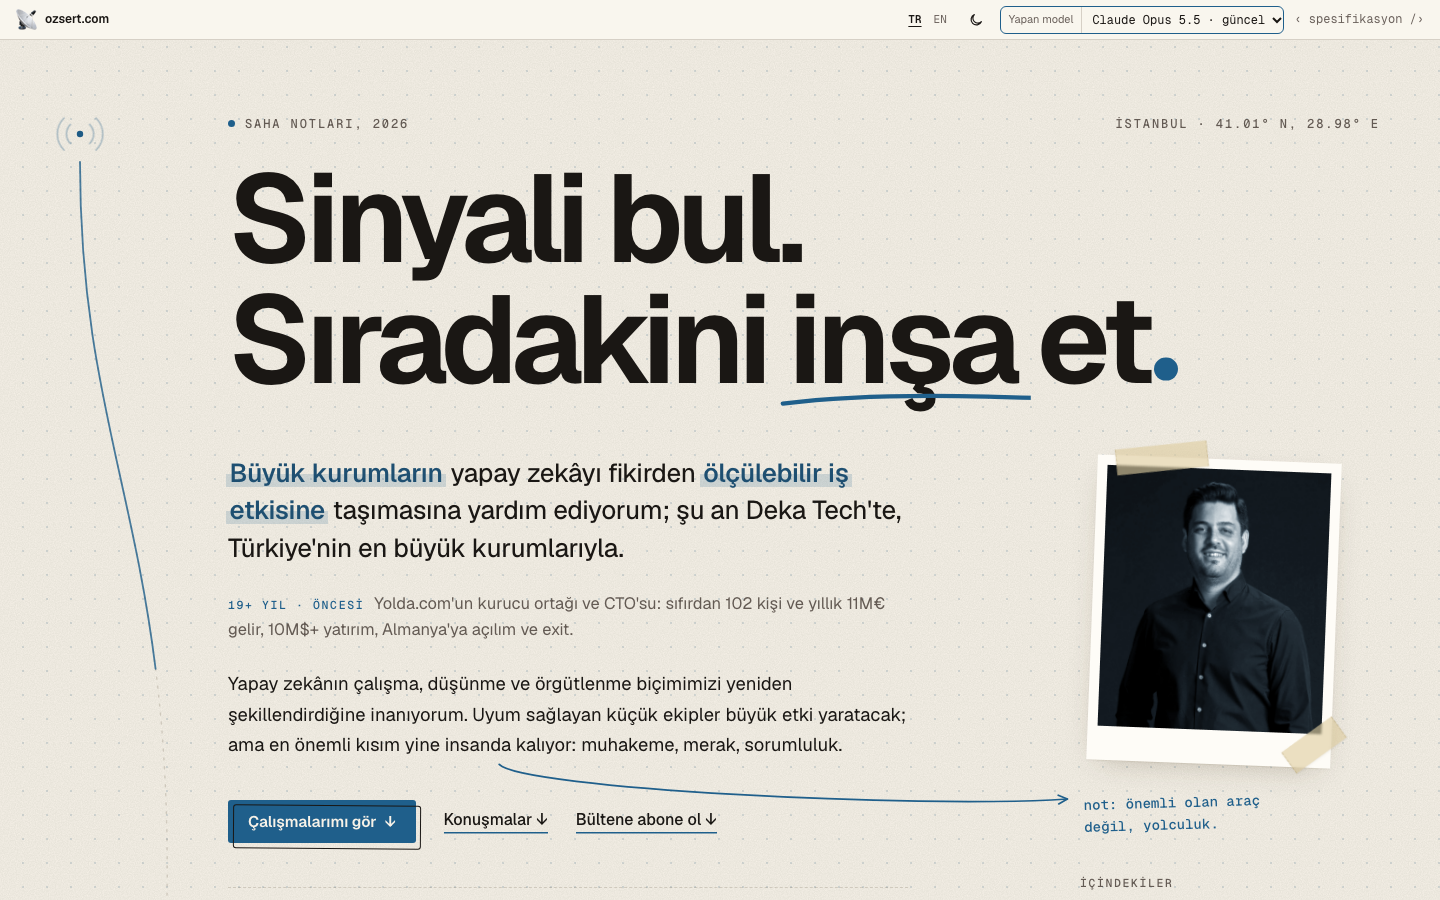
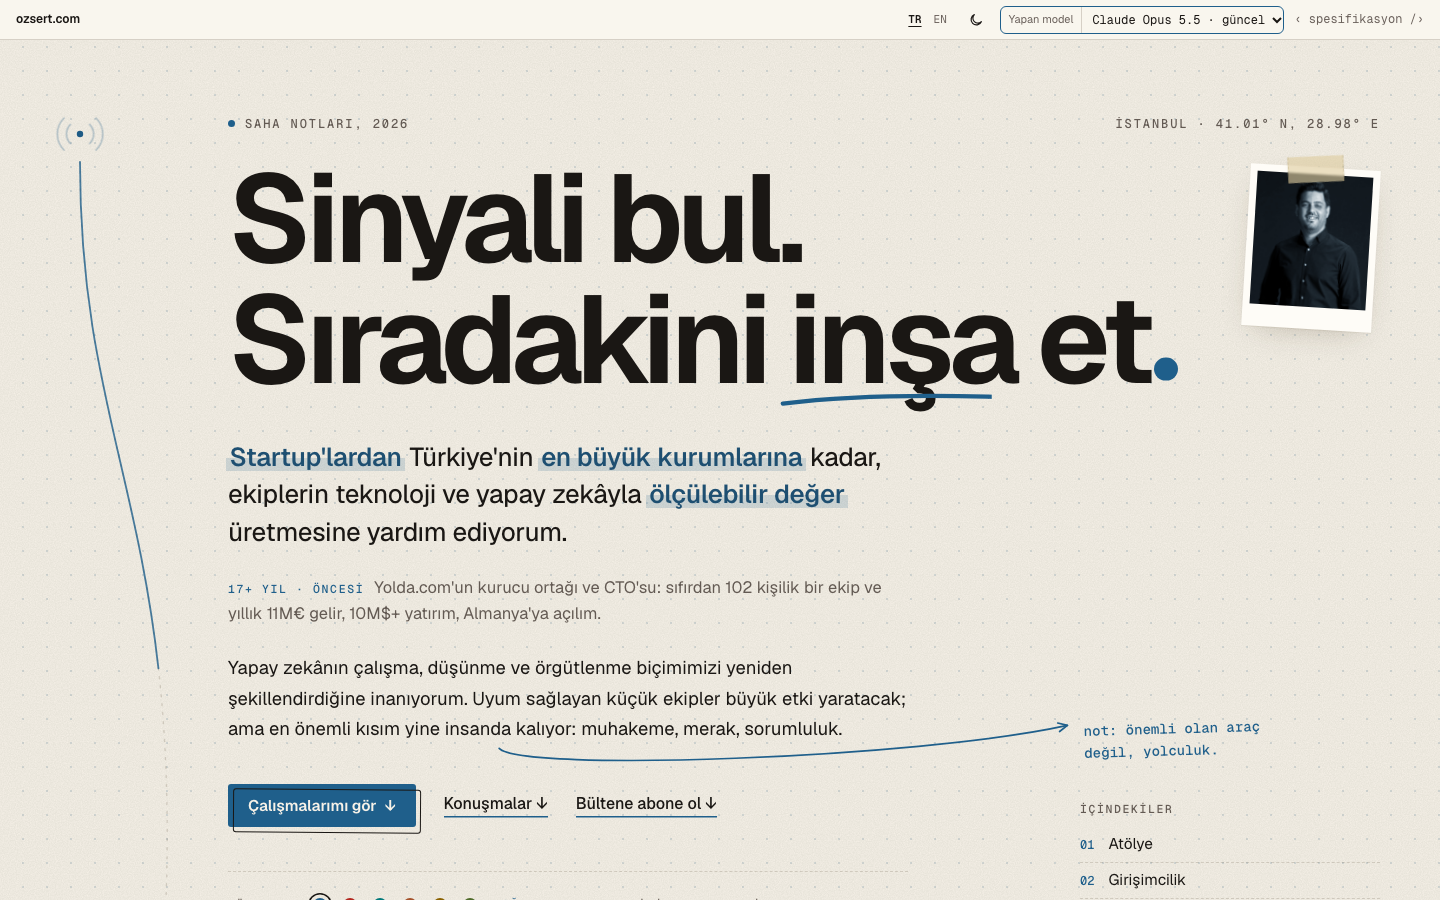
Hero: small portrait at the headline's corner, content and contents list move up
Hand fix to the dry-run homepage (allowed before the freeze) plus a short design.md note,
and refreshed timeline thumbnails.

diff --git a/models/claude-opus-5-5/style.css b/models/claude-opus-5-5/style.css
@@ -201,8 +201,8 @@ section[id], footer[id] { scroll-margin-top: 48px; }
 .vo55-kicker-l::before { content: ""; display: inline-block; width: 7px; height: 7px; border-radius: 50%; background: var(--ink); margin-right: 10px; transform: translateY(-1px); }
 
 .vo55-h1 {
-  font-size: clamp(44px, 8.6vw, 124px); line-height: .94; letter-spacing: -.052em; font-weight: 650;
-  margin: 28px 0 0; max-width: 15ch; text-wrap: balance;
+  font-size: clamp(44px, 7.3vw, 108px); line-height: .94; letter-spacing: -.052em; font-weight: 650;
+  margin: 28px 0 0; max-width: none; text-wrap: balance;
 }
 .vo55-h1 .vo55-line { display: block; }
 .vo55-h1 .vo55-line + .vo55-line { margin-top: .04em; }
@@ -211,9 +211,11 @@ section[id], footer[id] { scroll-margin-top: 48px; }
 
 .vo55-hero-grid {
   position: relative; display: grid; grid-template-columns: minmax(0, 1fr) 300px; column-gap: clamp(32px, 6vw, 96px);
-  margin-top: 56px;
+  margin-top: 40px;
 }
 .vo55-hero-main { max-width: 680px; }
+/* the portrait is a small taped photo pinned to the headline's corner */
+.vo55-h1-wrap { display: grid; grid-template-columns: minmax(0, 1fr) auto; align-items: start; column-gap: 24px; }
 .vo55-role { font-size: clamp(21px, 2vw, 26px); line-height: 1.45; letter-spacing: -.012em; font-weight: 450; }
 .vo55-hl {
   color: color-mix(in srgb, var(--ink) 78%, var(--fg)); font-weight: 560;
@@ -249,26 +251,25 @@ section[id], footer[id] { scroll-margin-top: 48px; }
 
 .vo55-hero-side { position: relative; padding-top: 4px; }
 .vo55-portrait {
-  position: relative; margin: 0 0 0 12px; width: calc(100% - 20px); max-width: 244px; aspect-ratio: 4 / 5;
-  background: var(--card); padding: 10px 10px 34px; box-shadow: var(--shadow);
-  transform: rotate(2.2deg); transition: transform .5s var(--ease);
+  position: relative; margin: 34px 4px 0 0; width: clamp(120px, 11.5vw, 168px); aspect-ratio: 4 / 5;
+  background: var(--card); padding: 7px 7px 22px; box-shadow: var(--shadow);
+  transform: rotate(3.5deg); transition: transform .5s var(--ease);
 }
 .vo55-portrait:hover { transform: rotate(.6deg); }
 .vo55-portrait img { width: 100%; height: 100%; object-fit: cover; object-position: 50% 30%; filter: grayscale(1) contrast(1.05); }
 .vo55-portrait::after {
-  content: ""; position: absolute; inset: 10px 10px 34px; background: var(--ink); mix-blend-mode: soft-light; opacity: .55; pointer-events: none;
+  content: ""; position: absolute; inset: 7px 7px 22px; background: var(--ink); mix-blend-mode: soft-light; opacity: .55; pointer-events: none;
 }
-.vo55-tape-a { top: -12px; left: 18px; transform: rotate(-8deg); }
-.vo55-tape-b { bottom: 10px; right: -14px; transform: rotate(-38deg); width: 62px; }
+.vo55-tape-a { top: -11px; left: 50%; width: 56px; transform: translateX(-50%) rotate(-6deg); }
 
 .vo55-note {
-  position: relative; margin: 40px 0 0 0; padding-left: 4px; max-width: 26ch;
+  position: relative; margin: 0; padding-left: 4px; max-width: 26ch;
   font: 500 14px/1.55 var(--mono); color: var(--ink); transform: rotate(-1.6deg);
 }
 .vo55-arrow { position: absolute; inset: 0; width: 100%; height: 100%; pointer-events: none; overflow: visible; }
 .vo55-arrow path { fill: none; stroke: var(--ink); stroke-width: 1.7; stroke-linecap: round; stroke-linejoin: round; }
 
-.vo55-toc { margin-top: 40px; }
+.vo55-toc { margin-top: 6px; }
 .vo55-toc h2 { margin-bottom: 10px; }
 .vo55-toc a { display: flex; gap: 14px; align-items: baseline; text-decoration: none; padding: 5px 0; border-bottom: 1px dashed var(--rule); font-size: 15.5px; transition: color .2s, padding .25s var(--ease); }
 .vo55-toc a:hover { color: var(--ink); padding-left: 6px; }
@@ -527,10 +528,11 @@ a.vo55-exp-row:hover .vo55-exp-arrow { transform: translateX(6px); }
   .vo55-sec { padding: 88px 0 40px; min-height: 0; }
   .vo55-hero { padding-top: 12px; }
   .vo55-hero-grid { grid-template-columns: minmax(0, 1fr); margin-top: 36px; }
-  .vo55-hero-side { display: grid; grid-template-columns: minmax(0, 150px) minmax(0, 1fr); gap: 14px 26px; align-items: start; margin-top: 44px; grid-row: 1; margin-bottom: 8px; }
-  .vo55-hero-main { grid-row: 2; }
-  .vo55-portrait { margin: 0; width: 100%; }
-  .vo55-note { margin-top: 18px; grid-column: 2; grid-row: 1; align-self: center; }
+  .vo55-hero-side { margin-top: 28px; }
+  .vo55-h1-wrap { column-gap: 14px; }
+  .vo55-portrait { width: 88px; margin-top: 8px; padding: 4px 4px 13px; }
+  .vo55-portrait::after { inset: 4px 4px 13px; }
+  .vo55-tape-a { width: 38px; height: 14px; top: -8px; }
   .vo55-toc { display: none; }
   .vo55-arrow { display: none; }
   .vo55-note { margin-top: 18px !important; }
@@ -566,7 +568,6 @@ a.vo55-exp-row:hover .vo55-exp-arrow { transform: translateX(6px); }
   .vo55-intro { font-size: 17.5px; }
 }
 @media (max-width: 400px) {
-  .vo55-hero-side { grid-template-columns: minmax(0, 120px) minmax(0, 1fr); gap: 12px 18px; }
   .vo55-note { font-size: 13px; }
   .vo55-btn { font-size: 15px; padding: 13px 16px; }
 }

diff --git a/index.html b/index.html
@@ -38,7 +38,13 @@
         <span class="vo55-kicker-r"><span class="vo55-kicker-city"></span> · 41.01° N, 28.98° E</span>
       </div>
 
-      <h1 class="vo55-h1" id="vo55-h1"></h1>
+      <div class="vo55-h1-wrap">
+        <h1 class="vo55-h1" id="vo55-h1"></h1>
+        <figure class="vo55-portrait">
+          <span class="vo55-tape vo55-tape-a" aria-hidden="true"></span>
+          <img src="/assets/portrait-upper.jpg" width="960" height="1200" alt="" data-i18n="[alt]hero.portrait_alt" fetchpriority="high">
+        </figure>
+      </div>
 
       <div class="vo55-hero-grid">
         <div class="vo55-hero-main">
@@ -67,12 +73,6 @@
         </div>
 
         <aside class="vo55-hero-side">
-          <figure class="vo55-portrait">
-            <span class="vo55-tape vo55-tape-a" aria-hidden="true"></span>
-            <span class="vo55-tape vo55-tape-b" aria-hidden="true"></span>
-            <img src="/assets/portrait-upper.jpg" width="960" height="1200" alt="" data-i18n="[alt]hero.portrait_alt" fetchpriority="high">
-          </figure>
-          <p class="vo55-note" id="vo55-note"><span data-i18n="hero.margin_note"></span></p>
           <nav class="vo55-toc" aria-labelledby="vo55-toc-h">
             <h2 class="vo55-mono-label" id="vo55-toc-h" data-i18n="ui.contents"></h2>
             <ol>
@@ -84,6 +84,7 @@
               <li><a href="#contact"><span class="vo55-toc-n">@</span><span data-i18n="footer.label"></span></a></li>
             </ol>
           </nav>
+          <p class="vo55-note" id="vo55-note"><span data-i18n="hero.margin_note"></span></p>
         </aside>
         <svg class="vo55-arrow" aria-hidden="true" focusable="false"><path/><path class="vo55-arrow-head"/></svg>
       </div>

diff --git a/models/claude-opus-5-5/index.html b/models/claude-opus-5-5/index.html
@@ -36,7 +36,13 @@
         <span class="vo55-kicker-r"><span class="vo55-kicker-city"></span> · 41.01° N, 28.98° E</span>
       </div>
 
-      <h1 class="vo55-h1" id="vo55-h1"></h1>
+      <div class="vo55-h1-wrap">
+        <h1 class="vo55-h1" id="vo55-h1"></h1>
+        <figure class="vo55-portrait">
+          <span class="vo55-tape vo55-tape-a" aria-hidden="true"></span>
+          <img src="/assets/portrait-upper.jpg" width="960" height="1200" alt="" data-i18n="[alt]hero.portrait_alt" fetchpriority="high">
+        </figure>
+      </div>
 
       <div class="vo55-hero-grid">
         <div class="vo55-hero-main">
@@ -65,12 +71,6 @@
         </div>
 
         <aside class="vo55-hero-side">
-          <figure class="vo55-portrait">
-            <span class="vo55-tape vo55-tape-a" aria-hidden="true"></span>
-            <span class="vo55-tape vo55-tape-b" aria-hidden="true"></span>
-            <img src="/assets/portrait-upper.jpg" width="960" height="1200" alt="" data-i18n="[alt]hero.portrait_alt" fetchpriority="high">
-          </figure>
-          <p class="vo55-note" id="vo55-note"><span data-i18n="hero.margin_note"></span></p>
           <nav class="vo55-toc" aria-labelledby="vo55-toc-h">
             <h2 class="vo55-mono-label" id="vo55-toc-h" data-i18n="ui.contents"></h2>
             <ol>
@@ -82,6 +82,7 @@
               <li><a href="#contact"><span class="vo55-toc-n">@</span><span data-i18n="footer.label"></span></a></li>
             </ol>
           </nav>
+          <p class="vo55-note" id="vo55-note"><span data-i18n="hero.margin_note"></span></p>
         </aside>
         <svg class="vo55-arrow" aria-hidden="true" focusable="false"><path/><path class="vo55-arrow-head"/></svg>
       </div>

diff --git a/models/claude-opus-5-5/script.js b/models/claude-opus-5-5/script.js
@@ -120,11 +120,11 @@
   function drawArrow() {
     var svg = $(".vo55-arrow"), grid = $(".vo55-hero-grid"), from = $("#vo55-circ-last"), note = $("#vo55-note");
     if (!svg || !from || !note || mqMobile.matches) return;
-    var portrait = $(".vo55-portrait"), man = $(".vo55-manifesto");
+    var side = $(".vo55-hero-side"), man = $(".vo55-manifesto");
     note.style.marginTop = "";
     var nat = note.getBoundingClientRect().top, want = man.getBoundingClientRect().bottom - 30;
-    var pb = portrait.getBoundingClientRect().bottom;
-    note.style.marginTop = Math.max(28, want - pb) + "px";
+    var toc = $(".vo55-toc"), pb = toc && toc.offsetHeight ? toc.getBoundingClientRect().bottom : side.getBoundingClientRect().top;
+    note.style.marginTop = Math.max(toc && toc.offsetHeight ? 32 : 0, want - pb) + "px";
     if (Math.abs(nat - note.getBoundingClientRect().top) > 1) queueLayout();
     var g = grid.getBoundingClientRect(), a = from.getBoundingClientRect(), b = note.getBoundingClientRect();
     if (!b.width) return;

diff --git a/specs/design.md b/specs/design.md
@@ -84,7 +84,9 @@ call), but it must call `OZ.setAccent(id)` and show the names in both languages.
 ## 4. Layout
 
 - Content starts **below the 40px shared top bar**. Do not build your own site header.
-- Spacious hero: headline, role line, manifesto, CTAs, portrait, and a margin note.
+- Spacious hero: headline, role line, manifesto, CTAs, portrait, and a margin note. The portrait is a small
+  taped photo pinned at the headline's corner (not a big column; the headline still fits on two lines), so the
+  role line starts right under the headline. The contents list sits at the top of the side column, beside the role line.
 - The now strip is compact and horizontal on desktop and wraps on mobile. It can
   feel like a ticker or a status line. Turkish is the longest language here, so
   at 1440px it should fit on one line in **both** TR and EN (check TR first).
